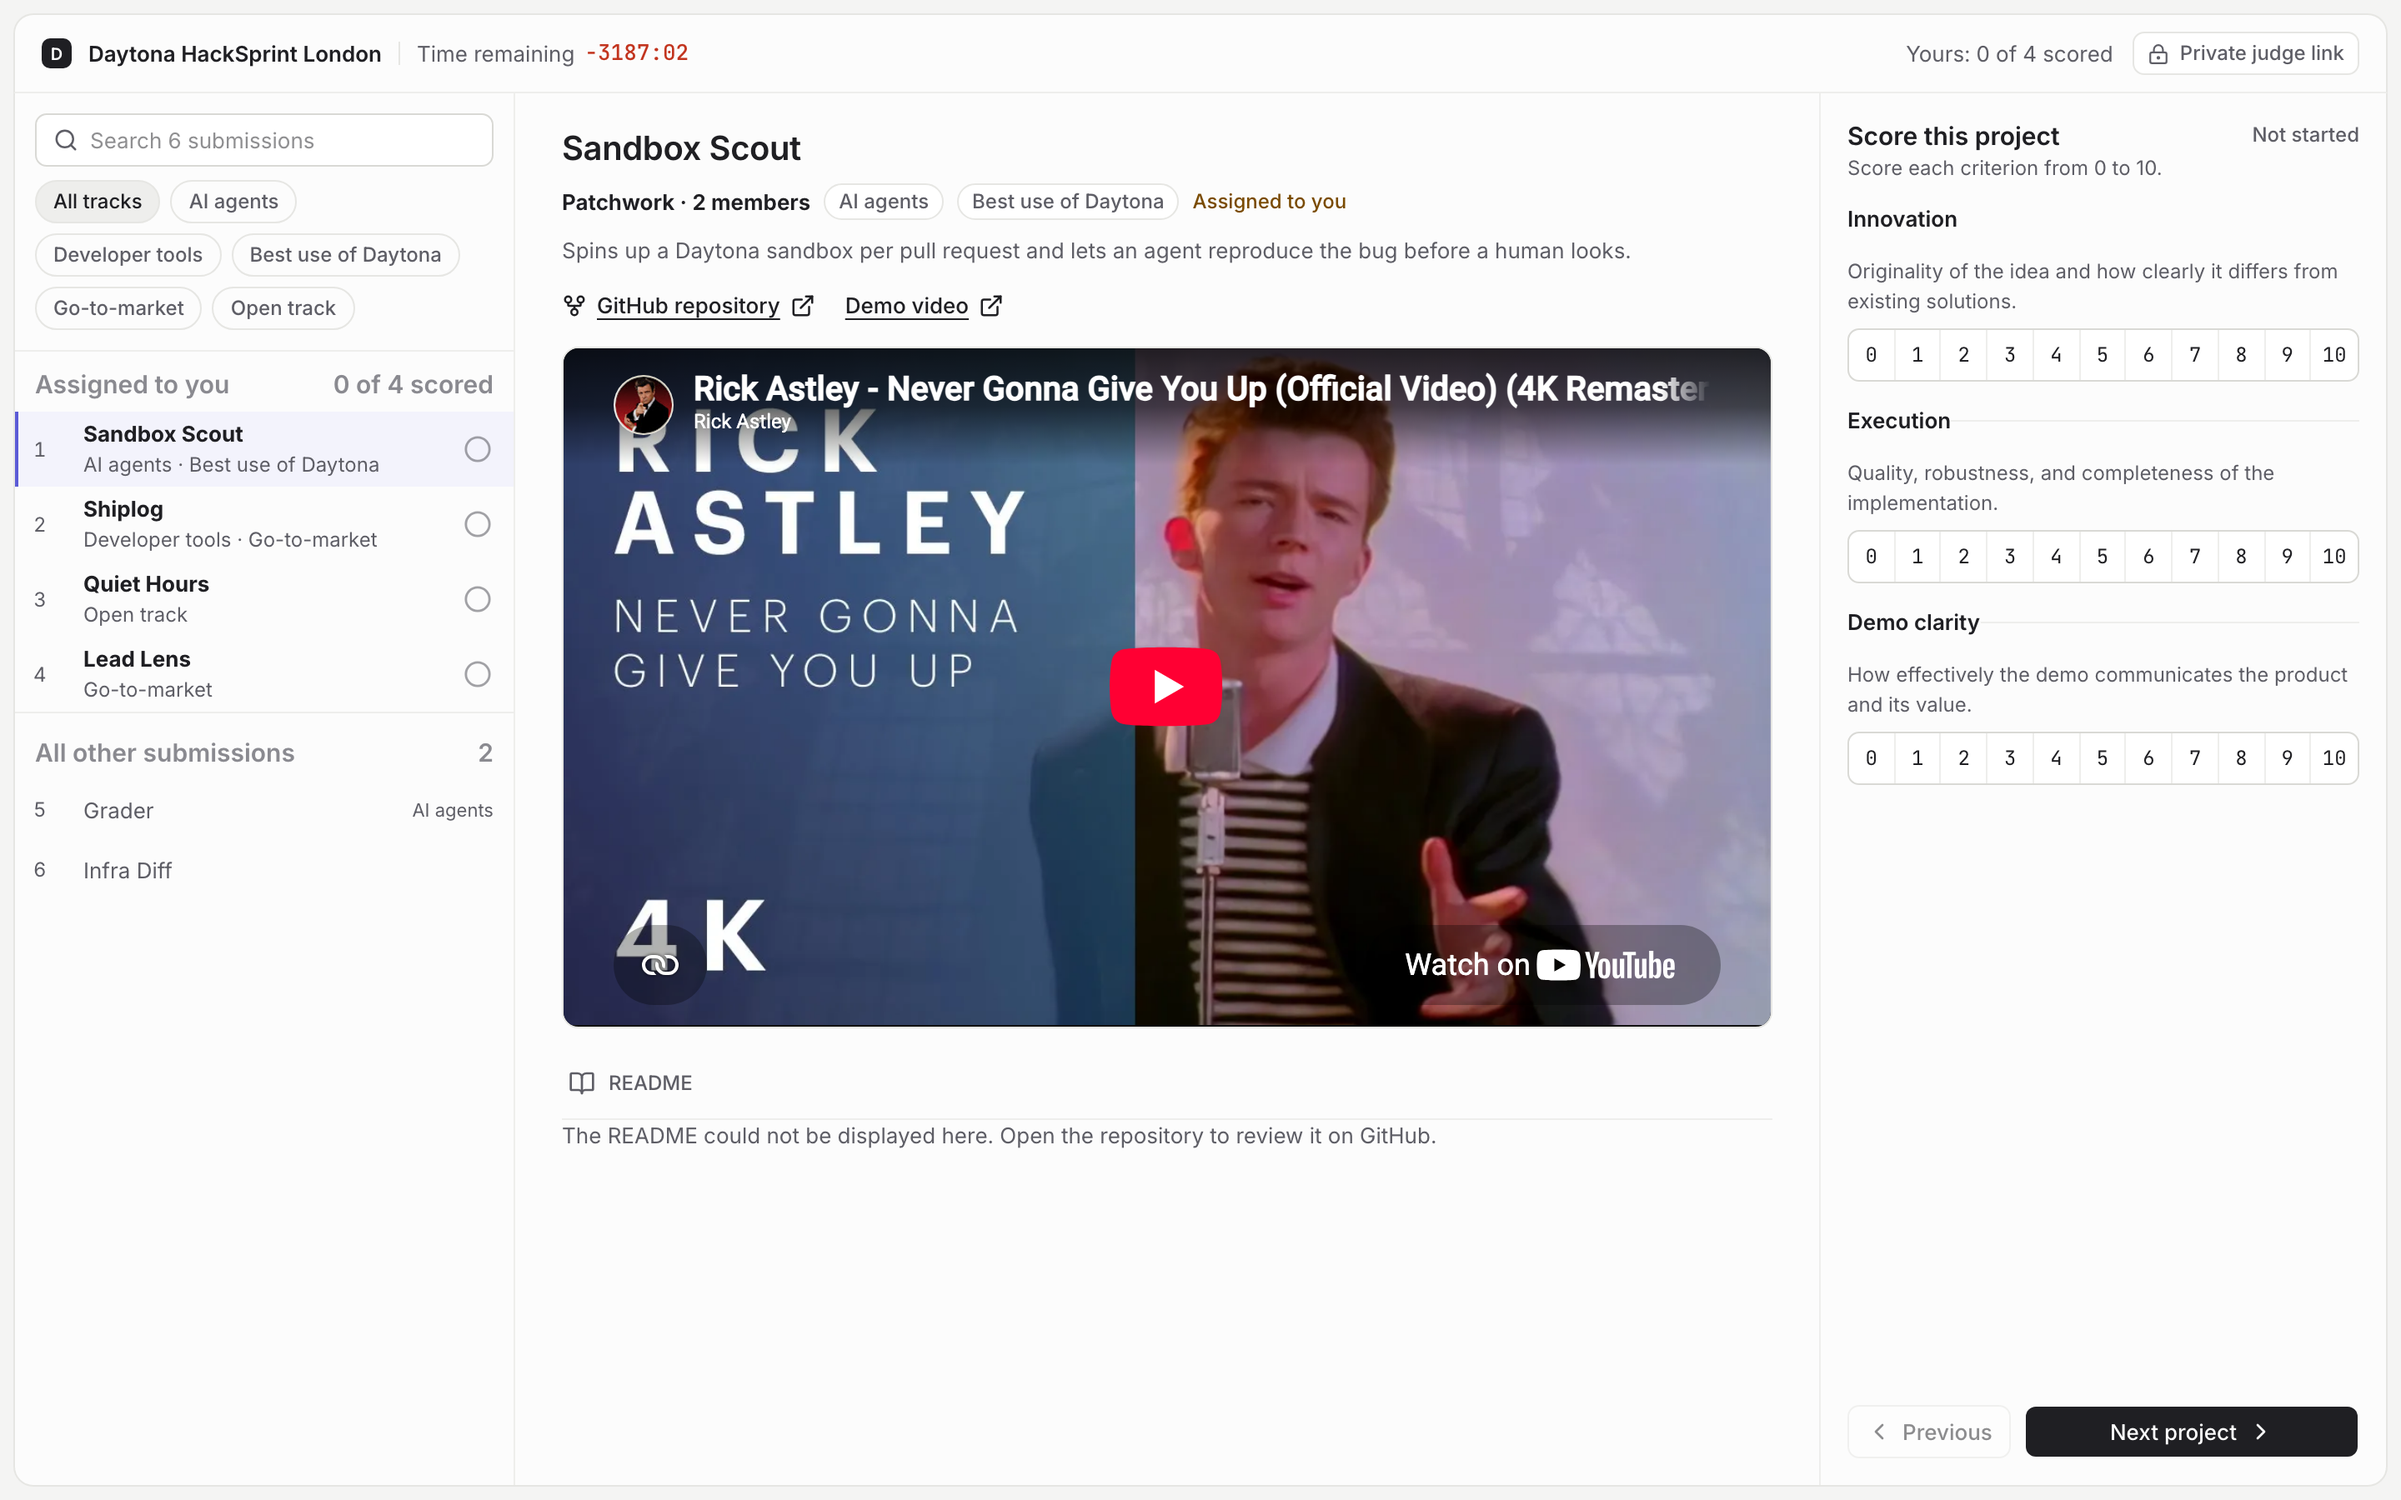
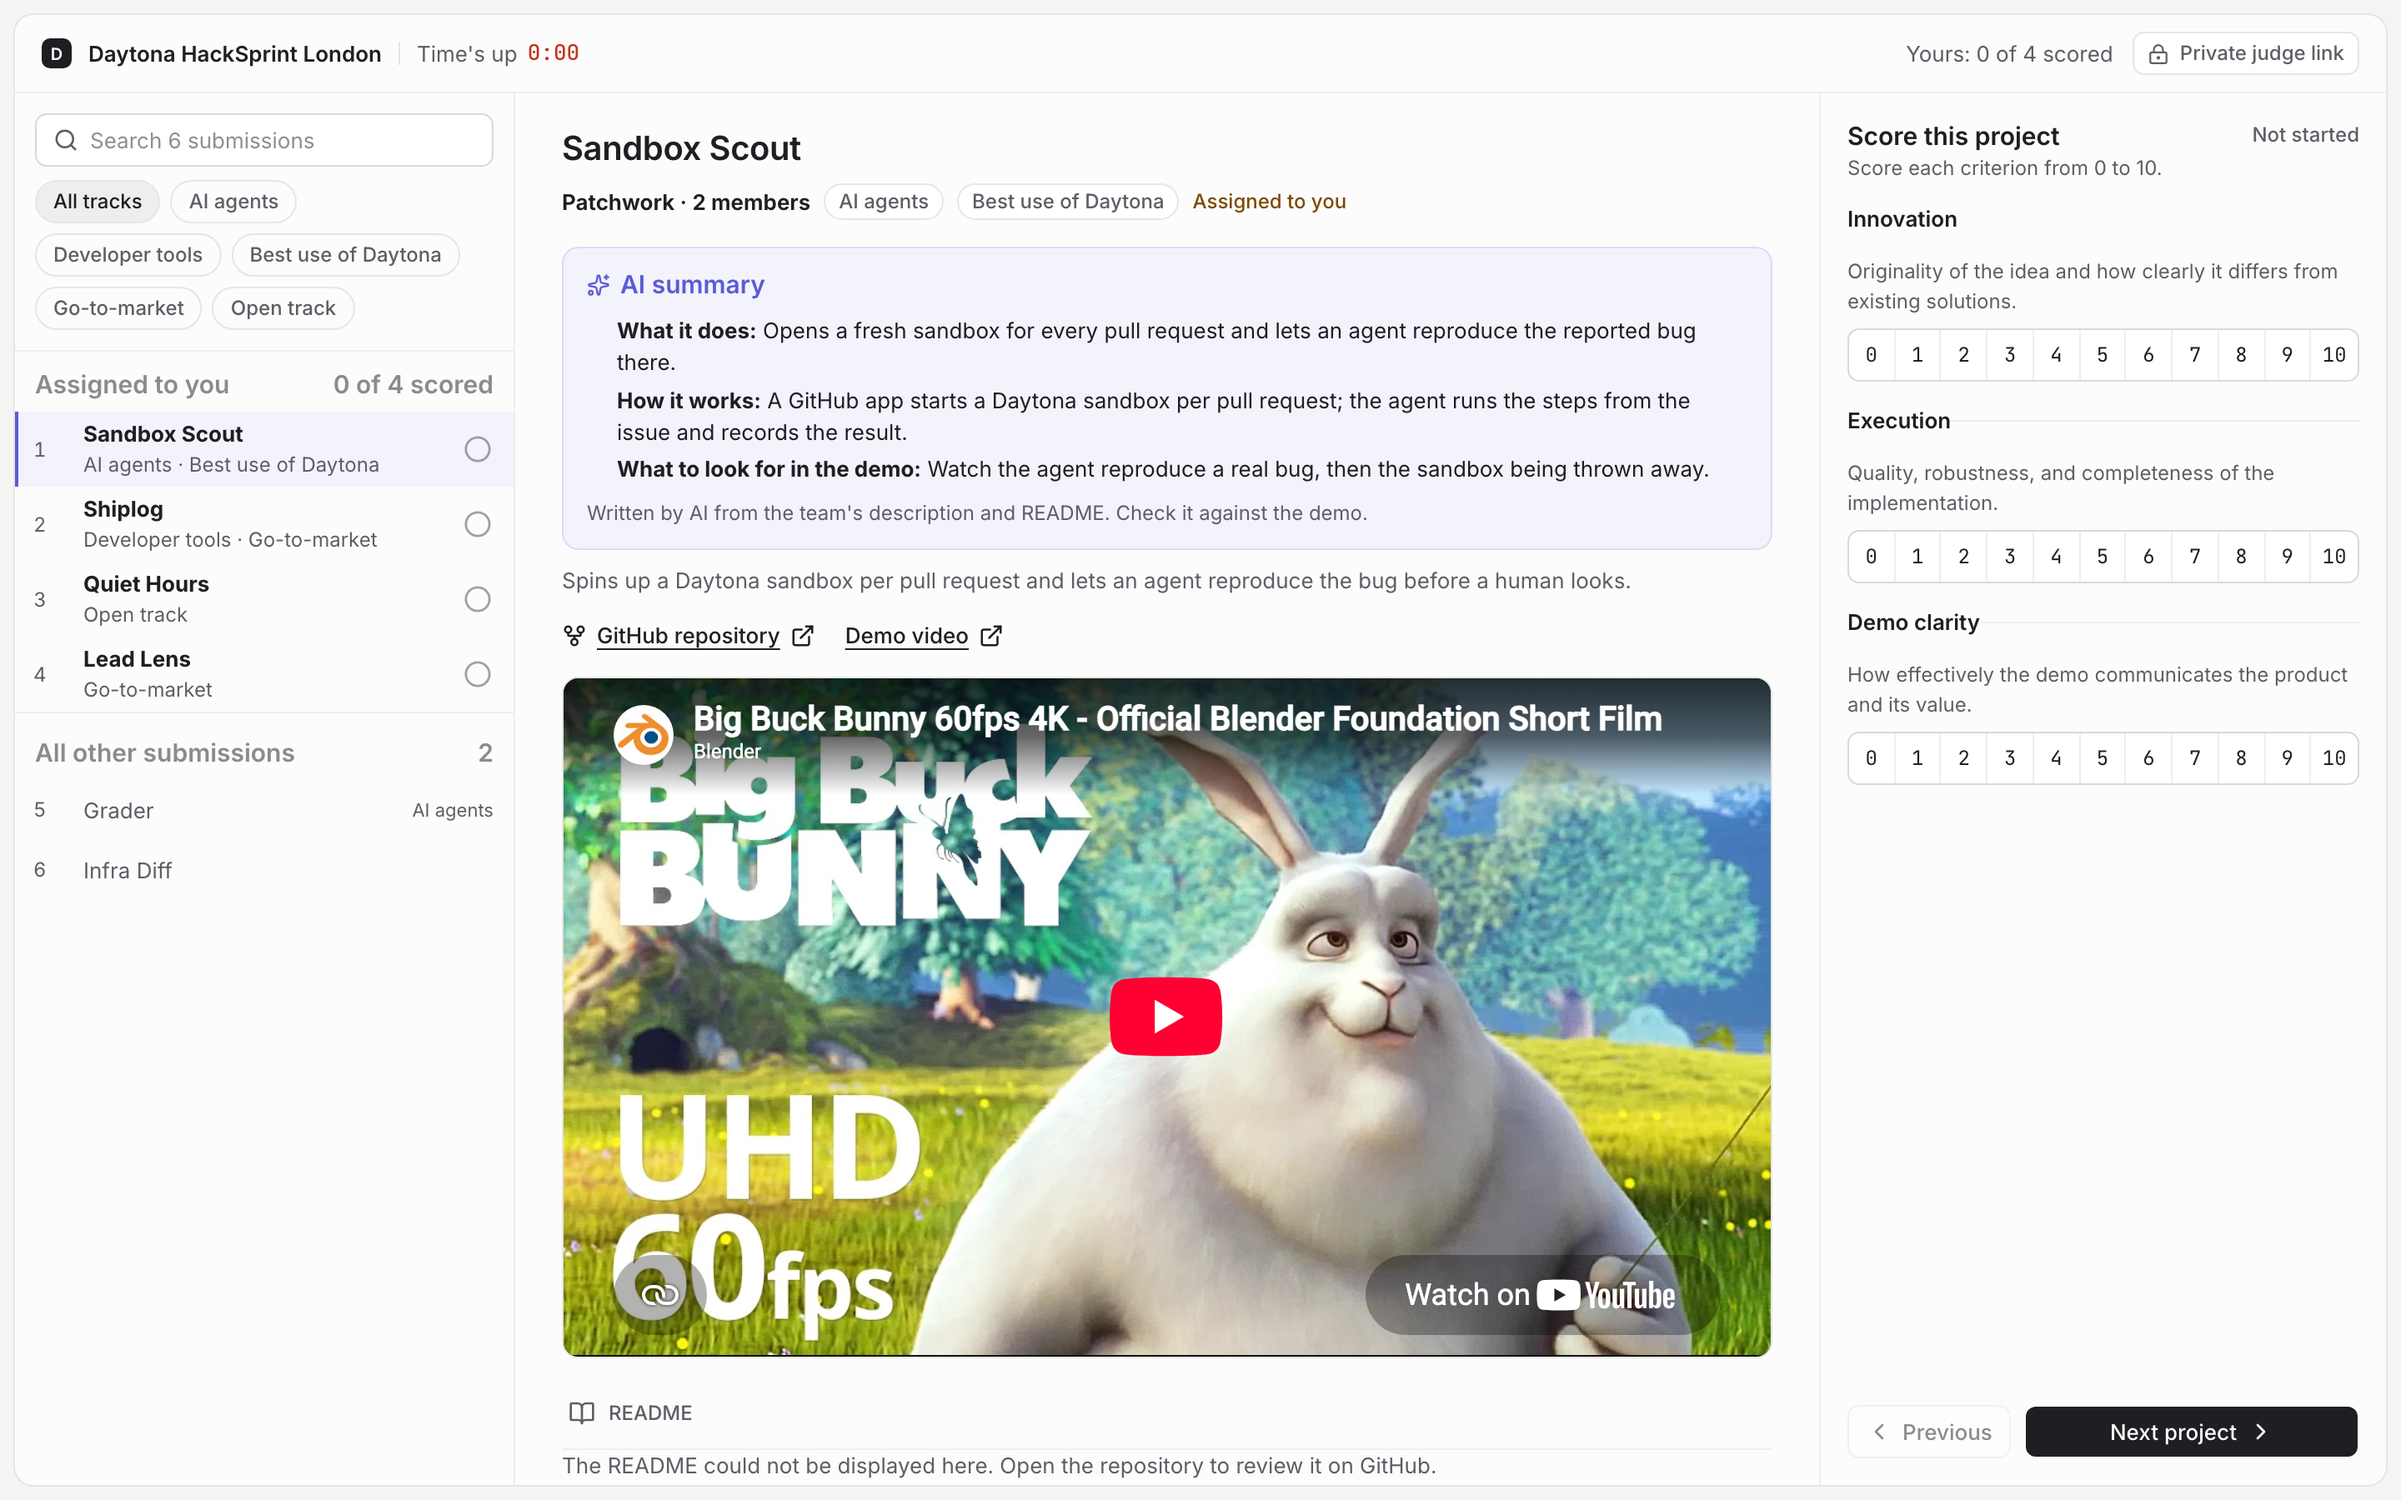
fix: stop the judge clock at 0:00 and show every AI summary state
The judge page counted below zero once judging time ran out (for example
-3187:02). It now stops at 0:00 and says "Time's up"; judges can still
score until the organizer closes judging.

The AI summary slot comes first and is never empty: the summary, "Summary
is being written" while one is queued, or "No summary" when none is
coming. The judge query adds aiSummaryStatus for this.

Requested-by: Demian (PR 2, redesign, judge page review)

diff --git a/app/judge/[slug]/[token]/ClientPage.tsx b/app/judge/[slug]/[token]/ClientPage.tsx
@@ -128,6 +128,8 @@ type JudgeEntry = {
   githubUrl: string | null;
   videoUrl: string | null;
   aiSummary: AiSummary | null;
+  // ready: shown. writing: queued, not saved yet. none: no summary is coming.
+  aiSummaryStatus?: "ready" | "writing" | "none";
   review: { completed: boolean } | null;
   assigned: boolean;
   number: number;
@@ -140,6 +142,26 @@ type AiSummary = {
   usedReadme: boolean;
   stale: boolean;
 };
+
+/** The summary comes first. While it is being written, or when none is coming, the judge is told so. */
+function AiSummarySlot({ summary, status }: { summary: AiSummary | null; status: "ready" | "writing" | "none" | undefined }) {
+  if (summary) return <AiSummaryPanel summary={summary} />;
+  if (status === "writing") {
+    return (
+      <section aria-labelledby="ai-summary-heading" aria-busy="true" className={styles.aiSummary}>
+        <h2 className={styles.aiSummaryHeading} id="ai-summary-heading"><SparklesIcon aria-hidden="true" /> AI summary</h2>
+        <div className={styles.aiSummaryPending}><Skeleton h={12} /><Skeleton w="86%" h={12} /><Skeleton w="72%" h={12} /></div>
+        <p className={styles.aiSummaryNote}>Summary is being written. It appears here on its own.</p>
+      </section>
+    );
+  }
+  return (
+    <section aria-labelledby="ai-summary-heading" className={styles.aiSummaryNone}>
+      <h2 className={styles.aiSummaryHeading} id="ai-summary-heading"><SparklesIcon aria-hidden="true" /> No summary</h2>
+      <p className={styles.aiSummaryNote}>There is no AI summary for this project. Use the description, the demo and the README.</p>
+    </section>
+  );
+}
 
 function AiSummaryPanel({ summary }: { summary: AiSummary }) {
   return (
@@ -187,6 +209,8 @@ export default function JudgeClientPage() {
   const [search, setSearch] = useState("");
   const [trackFilter, setTrackFilter] = useState<string | null>(null);
   const remainingMs = useSignedTimer(data?.timer);
+  // The clock stops at 0:00; judges can still finish scoring until the organizer closes judging.
+  const timeUp = remainingMs <= 0;
 
   // Assigned submissions first, then everyone else, numbered in that order.
   const entries = useMemo<JudgeEntry[]>(() => {
@@ -357,8 +381,8 @@ export default function JudgeClientPage() {
           <span className={styles.eventName}>{data.eventName}</span>
           <span className={styles.divider} />
           <span className={styles.timeBlock}>
-            <span>{isClosed ? "Judging closed" : "Time remaining"}</span>
-            <strong className={remainingMs < 0 ? styles.overtime : undefined}>{formatTimer(remainingMs)}</strong>
+            <span>{isClosed ? "Judging closed" : timeUp ? "Time's up" : "Time remaining"}</span>
+            <strong className={timeUp && !isClosed ? styles.overtime : undefined}>{formatTimer(Math.max(0, remainingMs))}</strong>
           </span>
         </div>
         <div className={styles.topActions}>
@@ -408,7 +432,7 @@ export default function JudgeClientPage() {
                   {selected.tracks.map((track) => <span className={styles.trackPill} key={track}>{track}</span>)}
                   <span className={styles.assignmentPill}>{selected.assigned ? "Assigned to you" : "Not assigned to you"}</span>
                 </div>
-                {selected.aiSummary ? <AiSummaryPanel summary={selected.aiSummary} /> : null}
+                <AiSummarySlot summary={selected.aiSummary} status={selected.aiSummaryStatus} />
                 <p className={styles.description}>{selected.description}</p>
                 <div className={styles.projectLinks}>
                   {selected.githubUrl ? <a href={selected.githubUrl} target="_blank" rel="noreferrer"><GitForkIcon /> GitHub repository <ExternalLinkIcon /></a> : null}

diff --git a/convex/aiSummary.test.ts b/convex/aiSummary.test.ts
@@ -334,3 +334,27 @@ test("the saved summary is the normalised text the check looked at", async () =>
   })).toEqual({ saved: true, reason: "ok" });
   expect((await summaryOf(t, id))?.whatItDoes).toBe("A policy layer for agent tool calls.");
 });
+
+test("judges are told when a summary is being written, ready, or not coming", async () => {
+  vi.stubEnv("OPENAI_API_KEY", "sk-test");
+  modelReturns();
+  const { t, add } = await setup();
+  await add(0);
+  await t.mutation(api.events.saveRoundOneJudges, { slug: "hack", judges: ["Alex", "Sam"] });
+  await t.mutation(api.judging.createJudgeAccess, { slug: "hack", judgeName: "Alex", capabilityToken: "alex-secret" });
+  await t.mutation(api.judging.closeSubmissions, { slug: "hack" });
+  await t.mutation(api.judging.startAssignmentPreparation, { slug: "hack" });
+  while (!(await t.mutation(api.judging.prepareAssignmentBatch, { slug: "hack" })).done);
+  await t.mutation(api.judging.startJudging, { slug: "hack" });
+  const status = async () =>
+    (await t.query(api.judging.getMyAssignments, { slug: "hack", capabilityToken: "alex-secret" })).assignments[0].aiSummaryStatus;
+  expect(await status()).toBe("writing");
+  await runAll(t);
+  expect(await status()).toBe("ready");
+  await t.run(async (ctx) => {
+    const [submission] = await ctx.db.query("submissions").take(1);
+    await ctx.db.patch(submission._id, { aiSummary: undefined });
+  });
+  vi.stubEnv("OPENAI_API_KEY", "");
+  expect(await status()).toBe("none");
+});

diff --git a/app/judge/[slug]/[token]/judge.module.css b/app/judge/[slug]/[token]/judge.module.css
@@ -146,7 +146,7 @@
 .projectIntro h1 { font-size: 20px; line-height: 26px; letter-spacing: -0.01em; }
 .trackPill { border: 1px solid var(--dq-line); background: var(--dq-card); color: var(--dq-fg-2); border-radius: 11px; font-weight: 500; }
 .assignmentPill { background: transparent; color: var(--dq-warning-fg); padding: 0; }
-.aiSummary { border: 1px solid #e2e2f6; border-radius: 10px; background: #fafaff; padding: 12px 14px; }
+.aiSummary { border: 1px solid color-mix(in srgb, var(--dq-accent) 16%, transparent); border-radius: 10px; background: var(--dq-accent-soft); padding: 12px 14px; }
 .aiSummaryHeading { font-size: 12px; font-weight: 600; letter-spacing: 0; text-transform: none; }
 .aiSummary ul { font-size: 13px; }
 .description { font-size: 13px; color: var(--dq-fg-2); }
@@ -165,3 +165,8 @@
 .scoreOption:hover:not(:disabled) { background: var(--dq-accent-soft); }
 .scoreNav { display: flex; gap: 8px; margin-top: auto; padding-top: 16px; }
 .scoreNav .nextProject { flex: 1; margin-top: 0; }
+
+/* AI summary states */
+.aiSummaryPending { display: grid; gap: 8px; padding: 2px 0 4px; }
+.aiSummaryNone { display: grid; gap: 4px; margin-top: 8px; padding: 12px 14px; border: 1px dashed var(--dq-line); border-radius: 10px; }
+.aiSummaryNone .aiSummaryHeading { color: var(--dq-fg-2); }

diff --git a/convex/judging.ts b/convex/judging.ts
@@ -8,7 +8,7 @@ import { isCompleteReview, isJudgingScore } from "../lib/judging-rubric";
 import { TableHistory } from "@convex-dev/table-history";
 import { listEventTracks, trackNamesFor, tracksById } from "./tracks";
 import { components, internal } from "./_generated/api";
-import { aiSummariesConfigured, publicAiSummary } from "./aiSummaries";
+import { aiSummariesConfigured, aiSummaryStatus, publicAiSummary } from "./aiSummaries";
 import type { DataModel } from "./_generated/dataModel";
 import {
   adjusted,
@@ -431,6 +431,7 @@ async function judgeSubmissionViews(
     githubUrl: submission.githubUrl ?? null,
     videoUrl: submission.videoUrl ?? null,
     aiSummary: publicAiSummary(submission),
+    aiSummaryStatus: aiSummaryStatus(event, submission),
   }));
 }
 

diff --git a/convex/judging.test.ts b/convex/judging.test.ts
@@ -630,7 +630,7 @@ test("judges can read every submission in judging but score only their own", asy
   const team = [...mine.assignments, ...others].find((item) => item.id === ids[0])!;
   expect(team).toMatchObject({ teamName: "Night Owls", memberCount: 3, demoTitle: "Demo 0", name: "Person 0" });
   for (const item of others) {
-    expect(Object.keys(item).sort()).toEqual(["aiSummary", "demoTitle", "description", "githubUrl", "id", "memberCount", "name", "teamName", "tracks", "videoUrl"]);
+    expect(Object.keys(item).sort()).toEqual(["aiSummary", "aiSummaryStatus", "demoTitle", "description", "githubUrl", "id", "memberCount", "name", "teamName", "tracks", "videoUrl"]);
   }
   expect(JSON.stringify(others)).not.toMatch(/\+44|@example\.com|participant-/);
 

diff --git a/convex/aiSummaries.ts b/convex/aiSummaries.ts
@@ -123,6 +123,15 @@ export const saveSummary = internalMutation({
   },
 });
 
+/**
+ * What a judge sees in the summary slot: the summary, one being written
+ * (queued and not saved yet), or none coming (no model key, or not in judging).
+ */
+export function aiSummaryStatus(event: Doc<"events">, submission: Doc<"submissions">): "ready" | "writing" | "none" {
+  if (submission.aiSummary) return "ready";
+  return aiSummariesConfigured() && needsSummary(event, submission) ? "writing" : "none";
+}
+
 /** The summary as shown to judges and admins, or null. */
 export function publicAiSummary(submission: Doc<"submissions">) {
   const summary = submission.aiSummary;

diff --git a/docs/plans/redesign.md b/docs/plans/redesign.md
@@ -67,6 +67,21 @@ Not agreed yet:
   open. Two-key sequences (G then S) have 1.2 seconds.
 - Admin views live in the address: `?view=queue|submissions|judging|settings`.
 
+## Fixes in this PR
+
+- The judge clock stops at 0:00 and says "Time's up". The previous tip
+  (290283b) counted below zero, for example -3187:02.
+- The judge page always fills the AI summary slot, first: the summary,
+  "Summary is being written" while one is queued, or "No summary". The
+  judge query adds `aiSummaryStatus` for this.
+
+## Known gap
+
+The sidebar's current event is the newest event, so on another event's
+admin page it can name a different event (for example DevDay Demo Hour
+while Daytona HackSprint London is open). PR 3 replaces it with the live
+event.
+
 ## Feature inventory
 
 Taken from the previous tip (290283b) before each page was redrawn. Every
@@ -156,6 +171,9 @@ for phone shots.
 | Admin actions in ⌘K | ⌘K on admin | `admin-command-menu.png` |
 | Add test people dialog | Add test people | `admin-test-people.png` |
 | Judge page | judge link | `judge.png` |
+| Judge, time is up | the judging clock passes 0:00 | `judge-times-up.png` |
+| AI summary being written | summary queued, not saved yet | `judge-summary-writing.png` |
+| No AI summary | no model key, or not in judging | `judge-summary-none.png` |
 | Judge tooltip | hover Next project | `judge-tooltip.png` |
 | Judge loading | Convex not connected yet | `judge-loading.png` |
 | Phone events, sidebar, admin | 390 wide | `phone-events.png`, `phone-sidebar.png`, `phone-admin.png` |
